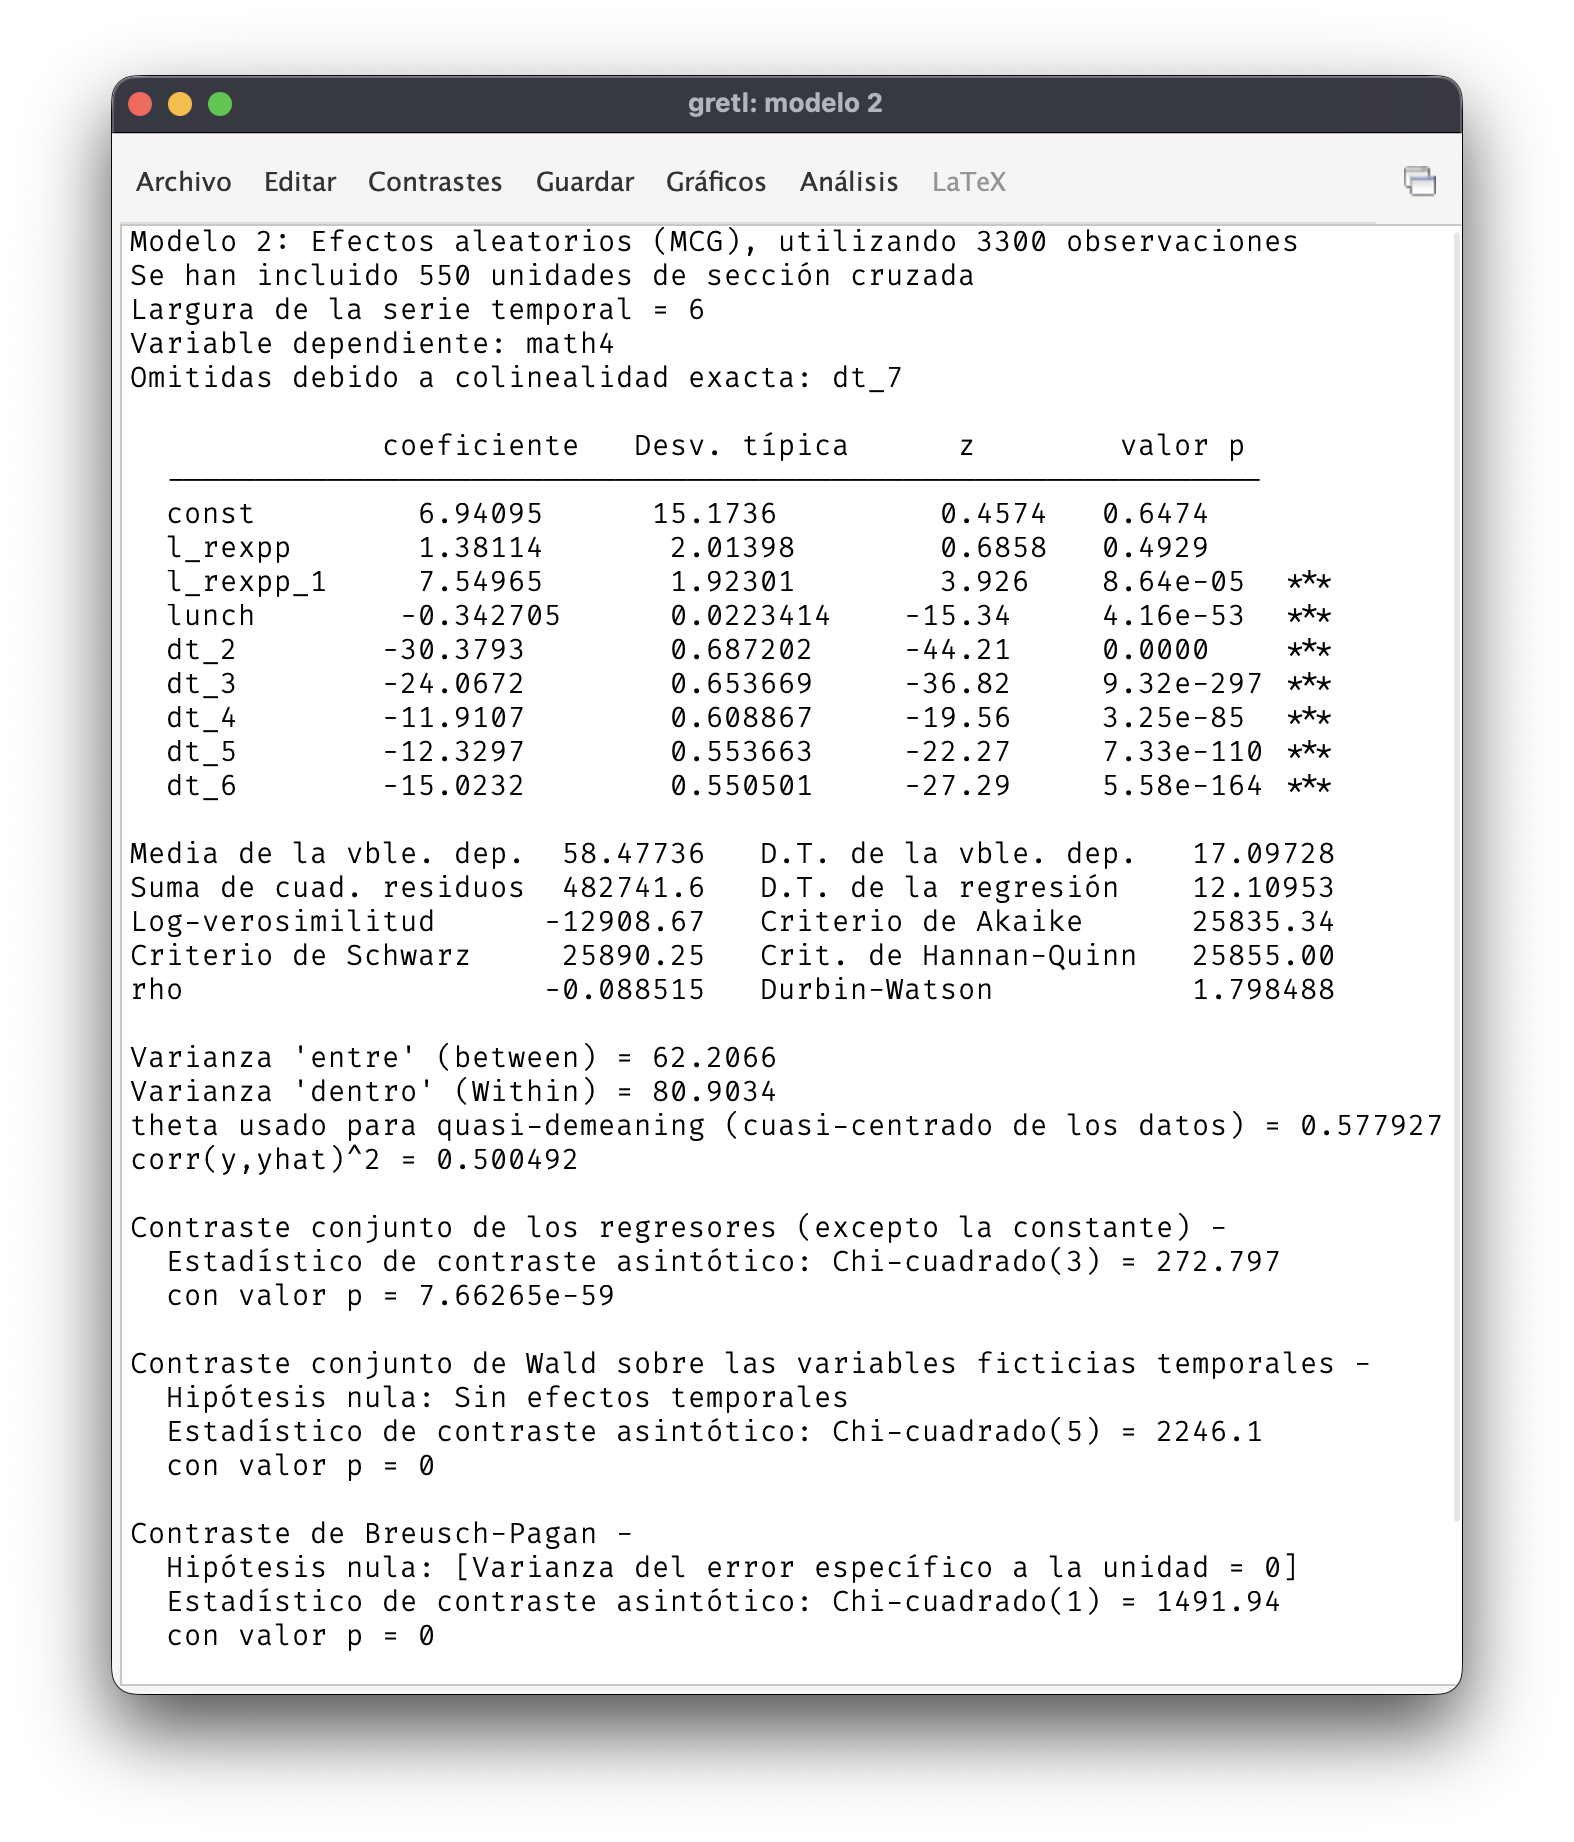
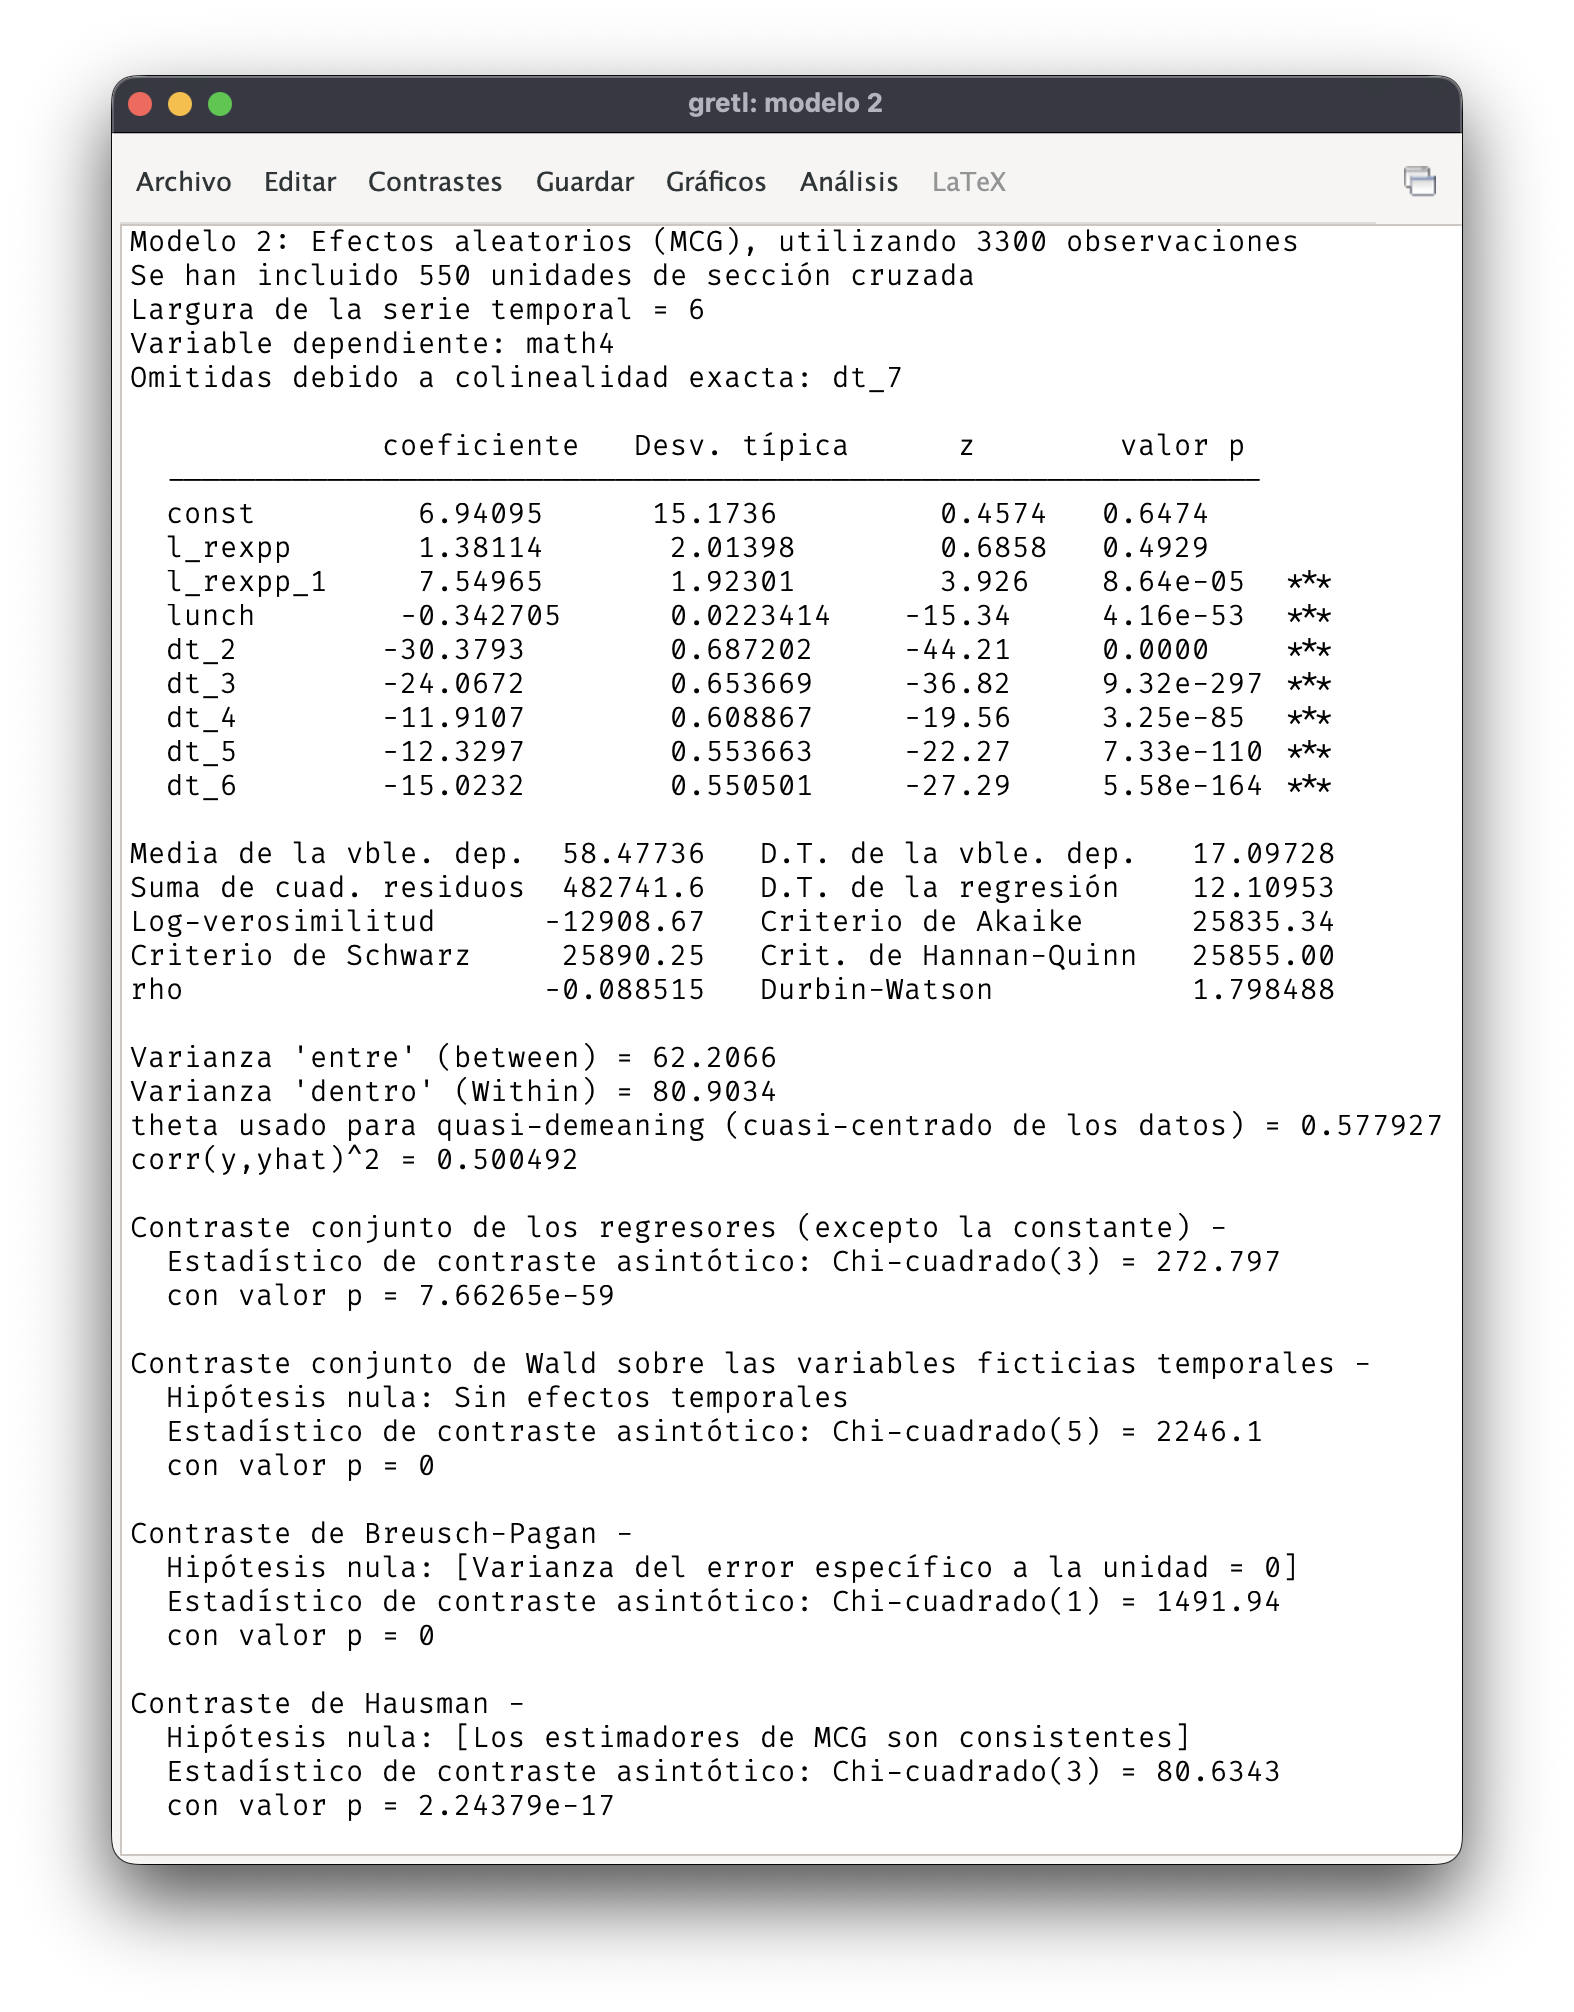
Complete unit 2 lab solutions

Changed region(s): [[0.0623, 0.0309, 0.9339, 0.9283], [0.7783, 0.6189, 0.8094, 0.6498]]

diff --git a/custom-lab.css b/custom-lab.css
@@ -4,3 +4,12 @@
   border: medium solid #636363 !important;
   border-radius: 10px !important;
 }
+
+.quarto-float-fig {
+    /* Centra el texto y cualquier contenido 'inline' dentro de figcaption */
+    text-align: center;
+}
+
+figure .quarto-figure {
+  margin-bottom: 0 !important;
+}
